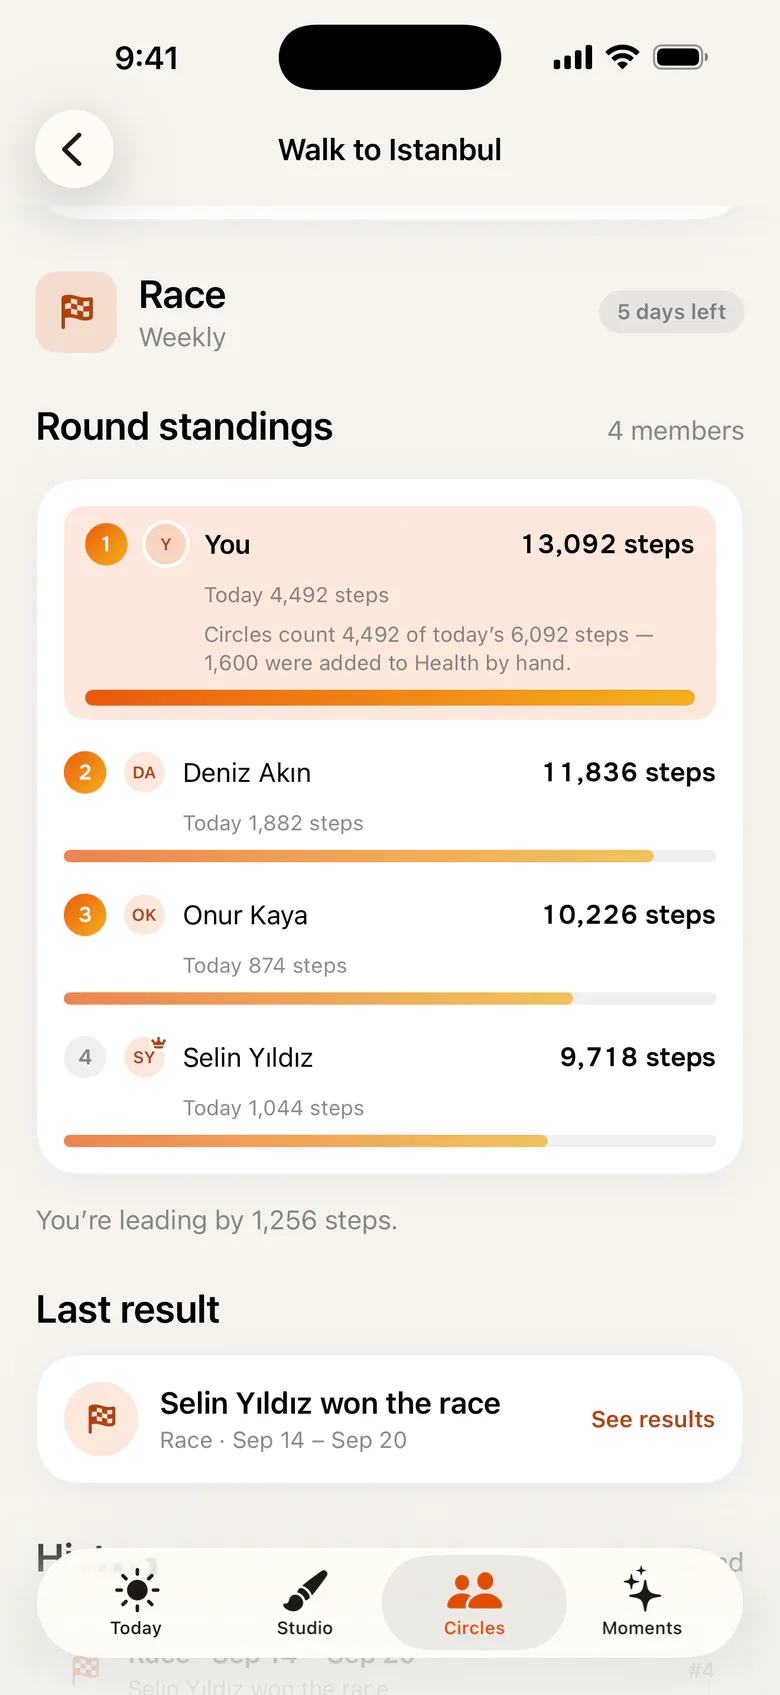
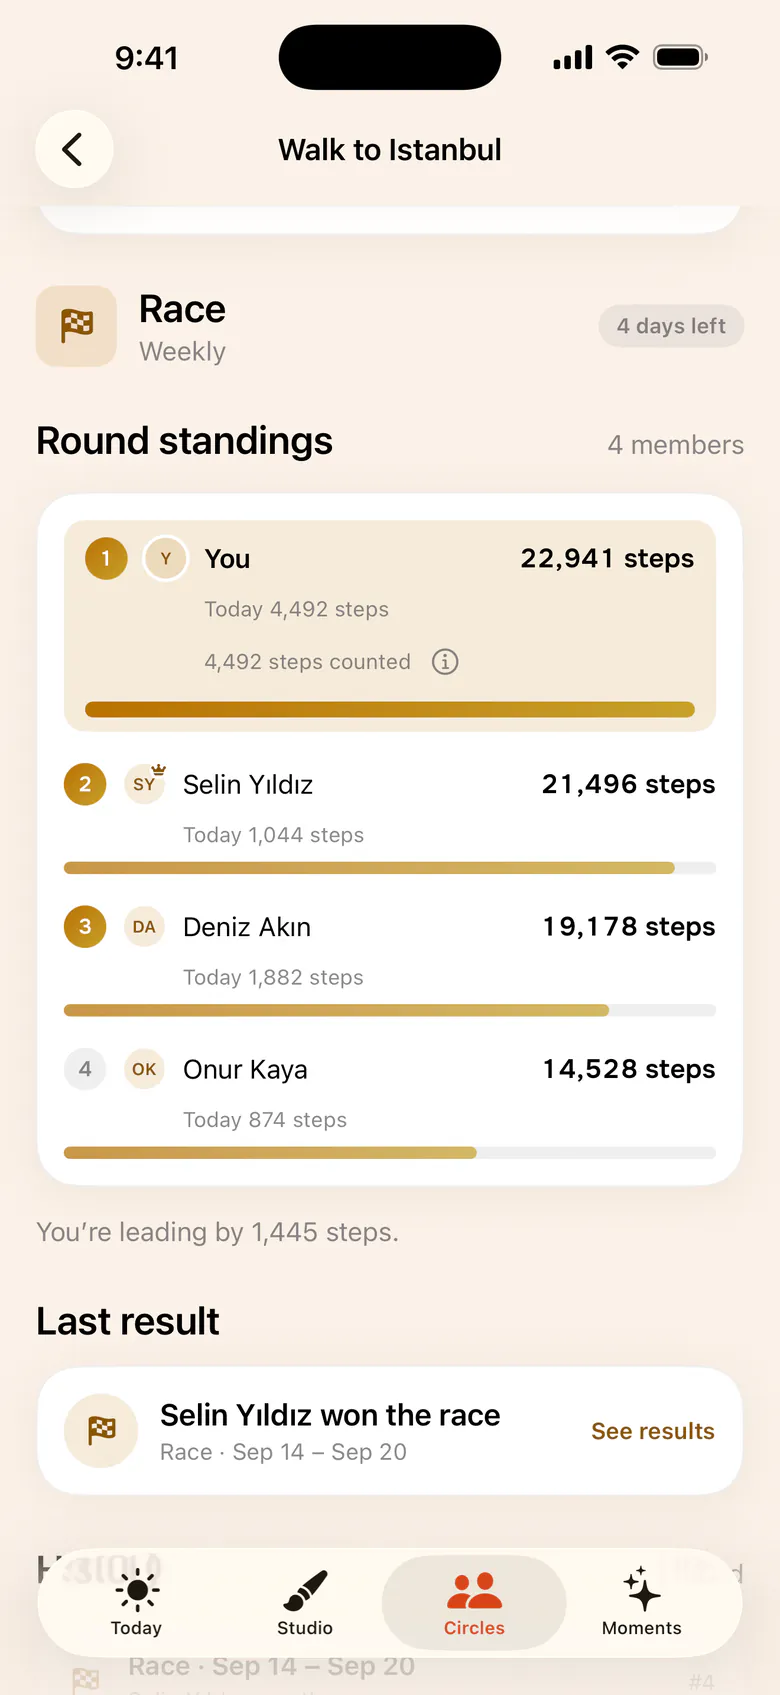
Site: the pages wear the Floor theme (Sunrise chrome, 29 images regenerated)

diff --git a/index.html b/index.html
@@ -6,8 +6,8 @@
 <title>Ovyso — Health widgets, crafted</title>
 <meta name="description" content="Ovyso turns the steps, sleep, heart rate and vitals already in Apple Health into Home Screen and Lock Screen widgets you design yourself, and walks with friends in Circles. Coming soon to the App Store for iPhone.">
 <meta name="color-scheme" content="dark light">
-<meta name="theme-color" content="#0c0c0d" media="(prefers-color-scheme: dark)">
-<meta name="theme-color" content="#f7f3ea" media="(prefers-color-scheme: light)">
+<meta name="theme-color" content="#16100d" media="(prefers-color-scheme: dark)">
+<meta name="theme-color" content="#fbf1e8" media="(prefers-color-scheme: light)">
 <link rel="preload" as="image" href="assets/screens/home.webp" fetchpriority="high">
 <script>
   // Decide the layout before first paint, so a wide screen never flashes the stacked page. The same
@@ -18,26 +18,32 @@
 </script>
 <style>
   :root {
-    /* Graphite finish ground (AtelierKit/Sources/Models/Finish.swift), the same tokens as
-       privacy.html and support.html; light mode below is the Paper finish, the app's own light
-       ground. The accent is the app's brand hue from the Porcelain & Graphite Vivid palette
-       (.superpowers/sdd/2026-09-22-porcelain-vivid/palette-study/porcelain-graphite-vivid.json:
-       `dark.accent`, `accentFill`), chosen on 2026-09-22 — no longer a metric's orange. */
-    --bg-top: #0c0c0d;
-    --bg-mid: #2a2a2d;
-    /* The finish's third stop is #4A4A4E; on a page this tall that stop becomes the whole ground
-       under the footer, where the muted links read 4.46:1 and the accent 4.22:1. #404044 keeps
-       the lift over the mid stop (1.39:1) and clears 4.5:1 for every text colour used there. */
-    --bg-bottom: #404044;
-    --surface: #1c1c1e;
+    /* The app's own chrome, Sunrise (Atelier/Support/AppTheme.swift, shipped with the Floor on
+       2026-09-23): a cocoa ground #16100D under #231B17 cards, the coral accent #FF7D57 and its
+       deep ember fill #C23D18; light mode below is the linen #FBF1E8 under white cards.
+       privacy.html, support.html and join/index.html share these tokens, and
+       Scripts/site_check.py holds all four pages to the app's bytes. The ground holds for the
+       first 55 % of the page and eases into the card colour by the foot. The old graphite
+       gradient's bottom stop, #404044, was a contrast fix for the titanium accent; the coral
+       reads 4.09:1 on it, and 6.71:1 on the card colour that replaces it. */
+    --bg-top: #16100d;
+    --bg-mid: #16100d;
+    --bg-bottom: #231b17;
+    --surface: #231b17;
     --hairline: rgba(255, 255, 255, 0.14);
     --ink: #ffffff;
     --ink-muted: #b8b8bc;
     --ink-body: rgba(255, 255, 255, 0.88);
-    --accent: #9fb6cc;
-    --accent-deep: #2e4154;
-    --link: #9fb6cc;
-    --link-underline: rgba(159, 182, 204, 0.4);
+    --accent: #ff7d57;
+    --accent-deep: #c23d18;
+    --link: #ff7d57;
+    --link-underline: rgba(255, 125, 87, 0.4);
+    /* The three glows that follow the app's data hues (MetricPalette.swift): Circles gold for
+       Circles and the result, the steps ramp for Today — the dark ramp here, the light one below. */
+    --circles: #fd9f00;
+    --steps-1: #d03000;
+    --steps-2: #cb5a00;
+    --steps-3: #ba7f00;
     --shadow: rgba(0, 0, 0, 0.55);
     --sat-shadow: rgba(0, 0, 0, 0.42);
     /* How much of a section's glow shows behind the phone; the light ground takes less. */
@@ -58,18 +64,25 @@
 
   @media (prefers-color-scheme: light) {
     :root {
-      --bg-top: #f7f3ea;
-      --bg-mid: #efeae0;
+      --bg-top: #fbf1e8;
+      --bg-mid: #fbf1e8;
       --bg-bottom: #ffffff;
       --surface: #ffffff;
       --hairline: rgba(28, 25, 23, 0.12);
       --ink: #1a1a1a;
       --ink-muted: #5c5c60;
       --ink-body: rgba(26, 26, 26, 0.88);
-      --accent: #40566b;
-      --accent-deep: #2e4154;
-      --link: #40566b;
-      --link-underline: rgba(64, 86, 107, 0.4);
+      /* The light accent #E0512A reads 3.50:1 on the linen: enough for the focus ring, not for
+         text. Links take the fill, the same coral taken down to carry text: 4.74:1 on the linen,
+         5.28:1 on white. */
+      --accent: #e0512a;
+      --accent-deep: #c23d18;
+      --link: #c23d18;
+      --link-underline: rgba(194, 61, 24, 0.4);
+      --circles: #b97200;
+      --steps-1: #ff7455;
+      --steps-2: #ff843b;
+      --steps-3: #eaa000;
       --shadow: rgba(35, 27, 15, 0.28);
       --sat-shadow: rgba(35, 27, 15, 0.22);
       --glow-max: 0.55;
@@ -260,6 +273,12 @@
       transition: opacity 0.2s linear;
       will-change: transform, opacity;
     }
+    html.motion .glow.circles { --glow: color-mix(in srgb, var(--circles) var(--mix), transparent); }
+    html.motion .glow.steps {
+      background: conic-gradient(var(--steps-1), var(--steps-2), var(--steps-3), var(--steps-1));
+      -webkit-mask: radial-gradient(closest-side, rgb(0 0 0 / var(--mix)) 0%, transparent 72%);
+      mask: radial-gradient(closest-side, rgb(0 0 0 / var(--mix)) 0%, transparent 72%);
+    }
     html.motion .phone {
       position: absolute;
       left: 50%;
@@ -349,18 +368,18 @@
     <!-- One phone for the whole page. The layers are the sections' screens in section order; the
          driver at the end of the page crossfades and poses them from the scroll position. The glows
          are one per section too: the finish grounds Scripts/appstore-screenshots/shots.json gives the
-         same screens, except Circles and the result, which take the palette's Circles gold
-         (`dark.metrics.circles.hue`), and Today, which takes its steps orange (`dark.metrics.steps.hue`). -->
+         same screens, except Circles and the result, which take the app's Circles gold (`--circles`),
+         and Today, which takes the steps ramp (`--steps-1` to `--steps-3`), each per appearance. -->
     <div class="phone-holder" aria-hidden="true">
       <div class="glows">
         <div class="glow" style="--glow: rgba(106, 79, 224, 0.34); --o: 1"></div>
         <div class="glow" style="--glow: rgba(18, 104, 143, 0.34)"></div>
         <div class="glow" style="--glow: rgba(47, 75, 199, 0.34)"></div>
-        <div class="glow" style="--glow: rgba(253, 159, 0, 0.26)"></div>
+        <div class="glow circles" style="--mix: 26%"></div>
         <div class="glow" style="--glow: rgba(21, 128, 61, 0.32)"></div>
-        <div class="glow" style="--glow: rgba(253, 159, 0, 0.24)"></div>
+        <div class="glow circles" style="--mix: 24%"></div>
         <div class="glow" style="--glow: rgba(8, 145, 178, 0.26)"></div>
-        <div class="glow" style="--glow: rgba(255, 109, 0, 0.26)"></div>
+        <div class="glow steps" style="--mix: 26%"></div>
       </div>
       <div class="phone frame">
         <div class="screen">
@@ -397,13 +416,13 @@
           <p>Metric, Dashboard, Rings, Trend, Lock Screen and Circle. They keep themselves current.</p>
         </div>
         <figure class="shot frame">
-          <img src="assets/screens/widgets.webp" width="780" height="1695" alt="iPhone Home Screen with three Ovyso widgets among the usual apps: a medium Trend widget in Paper showing 6,399 steps over seven days of bars, a small Steps widget in Graphite reading 6,399 of 10,000 and 3.8 miles, and a small Rings widget in Aurora, with Calendar, Photos, Reminders, News, Maps, Health, Wallet and Settings below." loading="lazy" decoding="async">
+          <img src="assets/screens/widgets.webp" width="780" height="1695" alt="iPhone Home Screen with three Ovyso widgets among the usual apps: a medium Trend widget in Paper showing 2,656 steps over seven days of bars, a small Steps widget in Graphite reading 2,656 of 10,000 and 2.8 miles, and a small Rings widget in Aurora, with Calendar, Photos, Reminders, News, Maps, Health, Wallet and Settings below." loading="lazy" decoding="async">
         </figure>
         <div class="sats">
-          <img class="sat" data-depth="0.9" style="--w:250px;--x:2%;--y:14%" src="assets/widgets/dashboard-large.webp" width="440" height="462" alt="Dashboard widget, large, in Graphite: Tuesday, Sep 22, with steps, distance, energy, exercise days, hourly activity and sleep." loading="lazy" decoding="async">
-          <img class="sat" data-depth="0.55" style="--w:220px;--x:30%;--y:50%" src="assets/widgets/lock-rectangular.webp" width="400" height="167" alt="Lock Screen widget, rectangular: Steps, 3,750 steps, with a progress bar." loading="lazy" decoding="async">
-          <img class="sat" data-depth="0.35" style="--w:120px;--x:6%;--y:66%" src="assets/widgets/lock-circular.webp" width="216" height="216" alt="Lock Screen widget, circular: 3.8k steps around a ring." loading="lazy" decoding="async">
-          <img class="sat" data-depth="0.7" style="--w:170px;--x:48%;--y:72%" src="assets/widgets/circle-small.webp" width="340" height="340" alt="Circle widget, small, in Coral: #2 in the Race with 3 days left, Ada with the crown ahead of You." loading="lazy" decoding="async">
+          <img class="sat" data-depth="0.9" style="--w:250px;--x:2%;--y:14%" src="assets/widgets/dashboard-large.webp" width="440" height="462" alt="Dashboard widget, large, in Graphite: Wednesday, Sep 23, with 2,656 steps, 2.8 miles, 376 kcal of active energy, exercise days 1 of 5, hourly activity, and 7 hours 7 minutes of sleep." loading="lazy" decoding="async">
+          <img class="sat" data-depth="0.55" style="--w:220px;--x:30%;--y:50%" src="assets/widgets/lock-rectangular.webp" width="400" height="167" alt="Lock Screen widget, rectangular: Steps, 2,656 steps, with a progress bar." loading="lazy" decoding="async">
+          <img class="sat" data-depth="0.35" style="--w:120px;--x:6%;--y:66%" src="assets/widgets/lock-circular.webp" width="216" height="216" alt="Lock Screen widget, circular: 2.7k steps around a ring." loading="lazy" decoding="async">
+          <img class="sat" data-depth="0.7" style="--w:170px;--x:48%;--y:72%" src="assets/widgets/circle-small.webp" width="340" height="340" alt="Circle widget, small, in Coral: Walk to Istanbul, #2 in the Race with 3 days left, Ada with the crown on 40,000 ahead of You on 35,250, and You #2 of 4." loading="lazy" decoding="async">
         </div>
       </section>
 
@@ -430,12 +449,12 @@
           <p>A Race, Target Days, a Team Goal, a Team Streak, or a Journey. Invite anyone by link or a six-character code. Joining a circle is free.</p>
         </div>
         <figure class="shot frame">
-          <img src="assets/screens/round.webp" width="780" height="1695" alt="The circle Walk to Istanbul in a weekly Race with 5 days left: round standings for four members with you first on 13,092 steps, a note that 1,600 steps added to Health by hand are not counted, and last week's result, Selin Yıldız won the race." loading="lazy" decoding="async">
+          <img src="assets/screens/round.webp" width="780" height="1695" alt="The circle Walk to Istanbul in a weekly Race with 4 days left: round standings for four members with you first on 22,941 steps, 4,492 of them today, Selin Yıldız second with the crown on 21,496, a line saying you are leading by 1,445 steps, and last week's result, Selin Yıldız won the race." loading="lazy" decoding="async">
         </figure>
         <div class="sats">
           <img class="sat" data-depth="0.85" style="--w:280px;--x:4%;--y:14%" src="assets/widgets/circle-medium.webp" width="560" height="262" alt="Circle widget, medium, in Coral: Walk to Istanbul, a Race with 3 days left, Ada with the crown on 40,000, You on 35,250, Ben on 33,000, and You #2 of 4." loading="lazy" decoding="async">
           <img class="sat" data-depth="0.5" style="--w:250px;--x:18%;--y:40%" src="assets/widgets/circle-large.webp" width="440" height="462" alt="Circle widget, large, in Coral: #2 in the Race with 3 days left, You #2 of 4, and the standings — Ada with the crown on 40,000, You on 35,250, Ben on 33,000, Selin on 20,000." loading="lazy" decoding="async">
-          <img class="sat" data-depth="0.3" style="--w:170px;--x:2%;--y:76%" src="assets/widgets/circle-small.webp" width="340" height="340" alt="Circle widget, small, in Coral: #2 in the Race with 3 days left, Ada with the crown ahead of You." loading="lazy" decoding="async">
+          <img class="sat" data-depth="0.3" style="--w:170px;--x:2%;--y:76%" src="assets/widgets/circle-small.webp" width="340" height="340" alt="Circle widget, small, in Coral: Walk to Istanbul, #2 in the Race with 3 days left, Ada with the crown on 40,000 ahead of You on 35,250, and You #2 of 4." loading="lazy" decoding="async">
         </div>
       </section>
 
@@ -445,7 +464,7 @@
           <p>Your circle's steps move along a real route, and every stop reached sends an illustrated postcard. Six routes, or one of your own between two places.</p>
         </div>
         <figure class="shot frame">
-          <img src="assets/screens/journey.webp" width="780" height="1695" alt="The circle Camino Crew on a Journey: an Apple Maps route through Galicia with the members' markers along it, 32.4 of 71.3 miles walked together, and the illustrated postcard for Portomarín, Stage 1, 13.7 miles from Sarria." loading="lazy" decoding="async">
+          <img src="assets/screens/journey.webp" width="780" height="1695" alt="The circle Camino Crew on a Journey: an Apple Maps route through Galicia with the members' markers along it, 36.1 of 71.3 miles walked together, and the illustrated postcard for Portomarín, Stage 1, 13.7 miles from Sarria." loading="lazy" decoding="async">
         </figure>
         <div class="sats">
           <picture class="sat" data-depth="0.85" style="--w:280px;--x:4%;--y:13%">
@@ -474,10 +493,10 @@
           <p>Share it as a poster.</p>
         </div>
         <figure class="shot frame">
-          <img src="assets/screens/results.webp" width="780" height="1695" alt="A finished Race, Sep 15 to 21: You won the race. A podium with You on 98,000 steps, Ada second on 70,000 and Ben third on 56,000; you won by 28,000 steps; the awards Winner, +5, and Every day counted, +1; and a laurel bar reading +7, no rank yet, 3 to Bronze." loading="lazy" decoding="async">
+          <img src="assets/screens/results.webp" width="780" height="1695" alt="A finished Race, Sep 16 to 22: You won the race. A podium with You on 98,000 steps, Ada second on 70,000 and Ben third on 56,000; you won by 28,000 steps; the awards Winner, +5, and Every day counted, +1; and a laurel bar reading +7, no rank yet, 3 to Bronze." loading="lazy" decoding="async">
         </figure>
         <div class="sats">
-          <img class="sat" data-depth="0.85" style="--w:210px;--x:4%;--y:10%" src="assets/cards/poster-winner.webp" width="400" height="711" alt="Winner poster in the Aurora finish: Sep 15 to 21, 2026, 98,000 steps, Won the race, The Cedar Street Walkers, 1st of 4, with the four walkers' bars." loading="lazy" decoding="async">
+          <img class="sat" data-depth="0.85" style="--w:210px;--x:4%;--y:10%" src="assets/cards/poster-winner.webp" width="400" height="711" alt="Winner poster in the Aurora finish: Sep 16 to 22, 2026, 98,000 steps, Won the race, The Cedar Street Walkers, 1st of 4, with the four walkers' bars." loading="lazy" decoding="async">
           <img class="sat" data-depth="0.45" style="--w:270px;--x:12%;--y:62%" src="assets/cards/awards.webp" width="480" height="140" alt="Two awards: Winner, +5 laurels, and Every day counted, a surprise, +1 laurel." loading="lazy" decoding="async">
           <img class="sat" data-depth="0.3" style="--w:250px;--x:18%;--y:78%" src="assets/cards/laurels.webp" width="480" height="123" alt="A laurel bar: +7 laurels, no rank yet, 3 to Bronze." loading="lazy" decoding="async">
         </div>
@@ -501,7 +520,7 @@
           <p>Ovyso reads Apple Health directly, so it works with an Apple Watch, Garmin, Oura, Withings, or your iPhone on its own — including the data your Fitbit syncs to Apple Health.</p>
         </div>
         <figure class="shot frame">
-          <img src="assets/screens/today.webp" width="780" height="1695" alt="The Today screen: Good morning, Tuesday, September 22, a steps ring at 6,092 of 10,000, one workout of 32 minutes, and tiles for distance 2.8 miles, active energy 376 kcal, calories burned 1,826 kcal and exercise days 2 of 5." loading="lazy" decoding="async">
+          <img src="assets/screens/today.webp" width="780" height="1695" alt="The Today screen: Good morning, Wednesday, September 23, the steps ring at 6,092 of 10,000 over a soft orange glow, and glassy tiles for distance 2.8 miles, active energy 376 kcal, calories burned 1,826 kcal and exercise days 2 of 5." loading="lazy" decoding="async">
         </figure>
       </section>
     </div>

diff --git a/join/index.html b/join/index.html
@@ -9,7 +9,7 @@
 <meta name="robots" content="noindex">
 <meta name="referrer" content="no-referrer">
 <meta name="color-scheme" content="dark">
-<meta name="theme-color" content="#0c0c0d">
+<meta name="theme-color" content="#16100d">
 <meta property="og:title" content="Join a circle on Ovyso">
 <meta property="og:description" content="A circle is a few friends racing their steps together on Ovyso. Joining is free.">
 <meta name="apple-itunes-app" content="app-id=6810986871, app-argument=https://ovyso.app/join/">
@@ -105,21 +105,20 @@
 })();
 </script>
 <style>
-  /* Same tokens and type as docs/site/index.html: graphite gradient, serif h1, 680px column,
-     footer — this is the same site, not a page with its own look. The accent is the app's brand
-     hue from the Porcelain & Graphite Vivid palette
-     (.superpowers/sdd/2026-09-22-porcelain-vivid/palette-study/porcelain-graphite-vivid.json:
-     `dark.accent`, `accentFill`), chosen on 2026-09-22 — no longer a metric's orange. */
+  /* Same tokens and type as docs/site/index.html: the app's Sunrise chrome (cocoa ground,
+     coral accent, ember fill — Atelier/Support/AppTheme.swift), serif h1, 680px column, footer —
+     this is the same site, not a page with its own look. Scripts/site_check.py holds the tokens to
+     the app's bytes and measures every text colour, the button's two states included. */
   :root {
-    --bg-top: #0c0c0d;
-    --bg-mid: #2a2a2d;
-    --bg-bottom: #404044;
-    --surface: #1c1c1e;
+    --bg-top: #16100d;
+    --bg-mid: #16100d;
+    --bg-bottom: #231b17;
+    --surface: #231b17;
     --hairline: rgba(255, 255, 255, 0.14);
     --ink: #ffffff;
     --ink-muted: #b8b8bc;
-    --accent: #9fb6cc;
-    --accent-deep: #2e4154;
+    --accent: #ff7d57;
+    --accent-deep: #c23d18;
   }
 
   * { box-sizing: border-box; }
@@ -242,13 +241,10 @@
     -webkit-tap-highlight-color: transparent;
   }
 
-  /* accentFill (--accent-deep), the app's own filled-capsule pattern: white text at 10.50:1
-     (MetricTintContrastTests, gate G4). Not the light-fill/dark-text shape the old orange used —
-     --accent-deep is now a dark navy (chosen to hold white, not dark, text; see
-     site-accent-report.md), so a resting fill of --accent with hover swapped to --accent-deep
-     would drop dark button text to ~1.8:1 on hover. Resting and hover invert the same pair
-     instead, and both are measured: white on --accent-deep 10.50:1; --accent-deep on --accent
-     5.02:1. */
+  /* The fill (--accent-deep, #C23D18), the app's own filled capsule: white text at 5.28:1. On
+     hover the capsule lifts to the accent, which white cannot read on (the app's own note on
+     `accentFill`), so the label turns to the ground: #16100D on #FF7D57 at 7.47:1. The old hover,
+     the fill as text on the accent, measures 2.09:1 with these two colours. */
   .btn-primary {
     background: var(--accent-deep);
     color: #ffffff;
@@ -256,7 +252,7 @@
   @media (hover: hover) {
     .btn-primary:hover {
       background: var(--accent);
-      color: var(--accent-deep);
+      color: var(--bg-top);
     }
   }
 
@@ -283,7 +279,7 @@
 
   footer p { margin: 0; }
 
-  a { color: var(--accent); text-decoration: none; border-bottom: 0.5px solid rgba(159, 182, 204, 0.4); }
+  a { color: var(--accent); text-decoration: none; border-bottom: 0.5px solid rgba(255, 125, 87, 0.4); }
   a:hover { border-bottom-color: var(--accent); }
   footer a { color: var(--ink-muted); border-bottom-color: rgba(184, 184, 188, 0.4); }
   .btn-primary, .btn-primary:hover { border-bottom: none; }

diff --git a/support/index.html b/support/index.html
@@ -6,19 +6,19 @@
 <title>Ovyso — Support</title>
 <style>
   :root {
-    /* Graphite finish ground (AtelierKit/Sources/Models/Finish.swift), the same tokens as
-       index.html. The accent is the app's brand hue from the Porcelain & Graphite Vivid palette
-       (.superpowers/sdd/2026-09-22-porcelain-vivid/palette-study/porcelain-graphite-vivid.json:
-       `dark.accent`, `accentFill`), chosen on 2026-09-22 — no longer a metric's orange. */
-    --bg-top: #0c0c0d;
-    --bg-mid: #2a2a2d;
-    --bg-bottom: #404044;
-    --surface: #1c1c1e;
+    /* The app's own chrome, Sunrise (Atelier/Support/AppTheme.swift), the same tokens as
+       index.html: the cocoa ground #16100D easing into the #231B17 card colour by the foot, the
+       coral accent #FF7D57 and its fill #C23D18. Scripts/site_check.py holds them to the app's
+       bytes and measures every text colour on every stop. */
+    --bg-top: #16100d;
+    --bg-mid: #16100d;
+    --bg-bottom: #231b17;
+    --surface: #231b17;
     --hairline: rgba(255, 255, 255, 0.14);
     --ink: #ffffff;
     --ink-muted: #b8b8bc;
-    --accent: #9fb6cc;
-    --accent-deep: #2e4154;
+    --accent: #ff7d57;
+    --accent-deep: #c23d18;
   }
 
   * { box-sizing: border-box; }
@@ -169,7 +169,7 @@
   }
 
   code {
-    background: rgba(159, 182, 204, 0.12);
+    background: rgba(255, 125, 87, 0.12);
     color: var(--accent);
     padding: 1px 6px;
     border-radius: 5px;
@@ -179,7 +179,7 @@
   a {
     color: var(--accent);
     text-decoration: none;
-    border-bottom: 0.5px solid rgba(159, 182, 204, 0.4);
+    border-bottom: 0.5px solid rgba(255, 125, 87, 0.4);
   }
   a:hover { border-bottom-color: var(--accent); }
 

diff --git a/privacy/index.html b/privacy/index.html
@@ -6,19 +6,19 @@
 <title>Ovyso — Privacy Policy</title>
 <style>
   :root {
-    /* Graphite finish ground (AtelierKit/Sources/Models/Finish.swift), the same tokens as
-       index.html. The accent is the app's brand hue from the Porcelain & Graphite Vivid palette
-       (.superpowers/sdd/2026-09-22-porcelain-vivid/palette-study/porcelain-graphite-vivid.json:
-       `dark.accent`, `accentFill`), chosen on 2026-09-22 — no longer a metric's orange. */
-    --bg-top: #0c0c0d;
-    --bg-mid: #2a2a2d;
-    --bg-bottom: #404044;
-    --surface: #1c1c1e;
+    /* The app's own chrome, Sunrise (Atelier/Support/AppTheme.swift), the same tokens as
+       index.html: the cocoa ground #16100D easing into the #231B17 card colour by the foot, the
+       coral accent #FF7D57 and its fill #C23D18. Scripts/site_check.py holds them to the app's
+       bytes and measures every text colour on every stop. */
+    --bg-top: #16100d;
+    --bg-mid: #16100d;
+    --bg-bottom: #231b17;
+    --surface: #231b17;
     --hairline: rgba(255, 255, 255, 0.14);
     --ink: #ffffff;
     --ink-muted: #b8b8bc;
-    --accent: #9fb6cc;
-    --accent-deep: #2e4154;
+    --accent: #ff7d57;
+    --accent-deep: #c23d18;
   }
 
   * { box-sizing: border-box; }
@@ -163,7 +163,7 @@
   a {
     color: var(--accent);
     text-decoration: none;
-    border-bottom: 0.5px solid rgba(159, 182, 204, 0.4);
+    border-bottom: 0.5px solid rgba(255, 125, 87, 0.4);
   }
   a:hover { border-bottom-color: var(--accent); }
 
